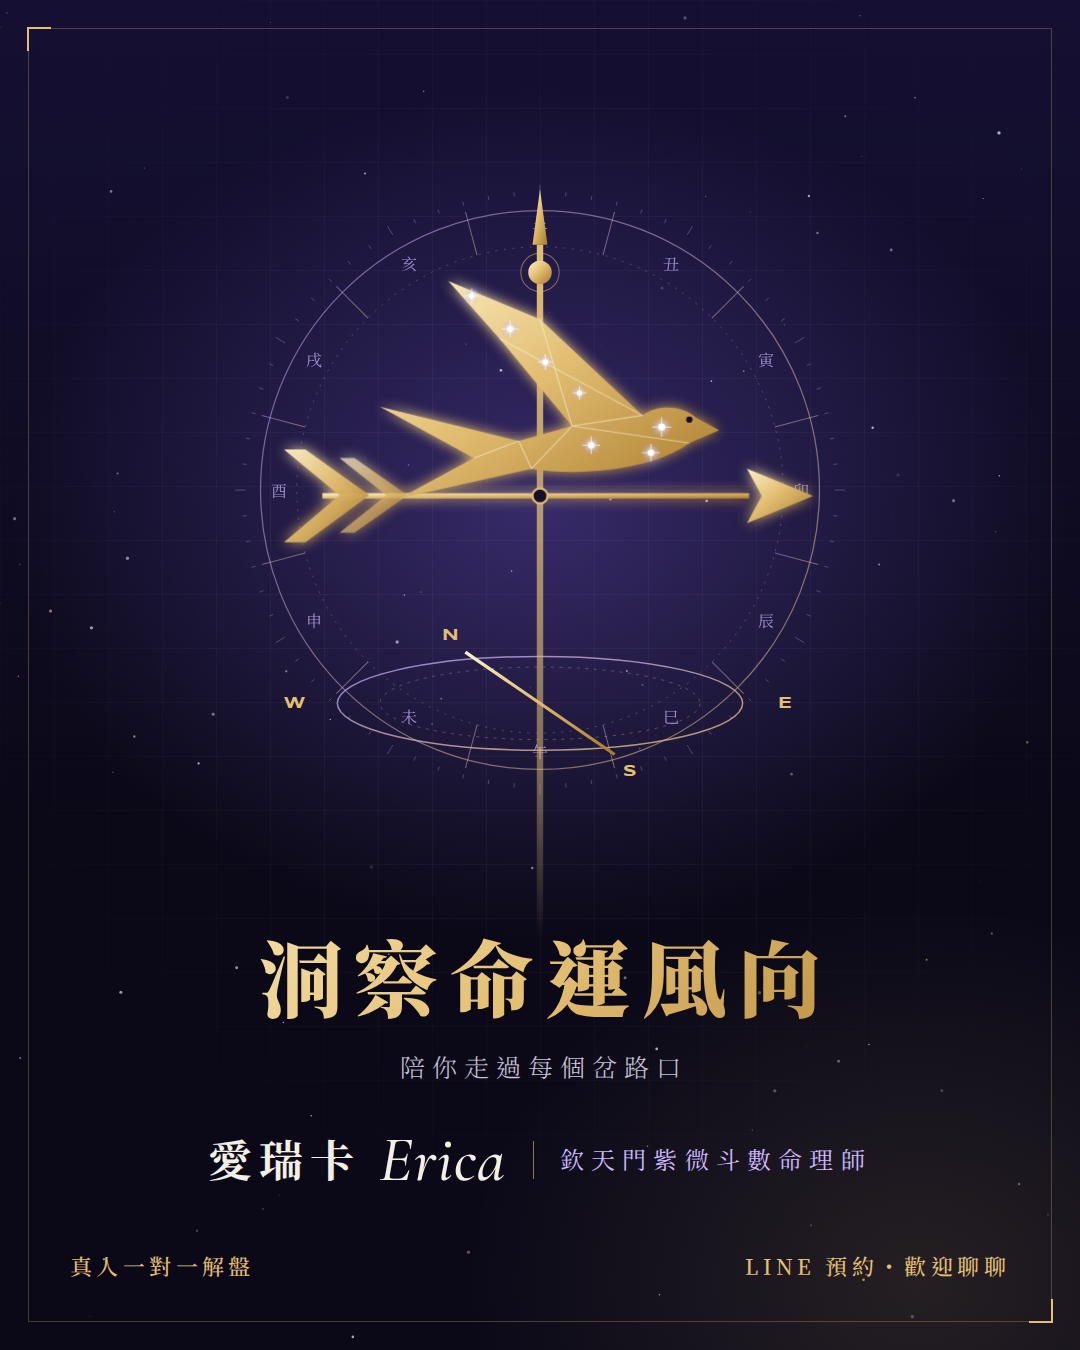
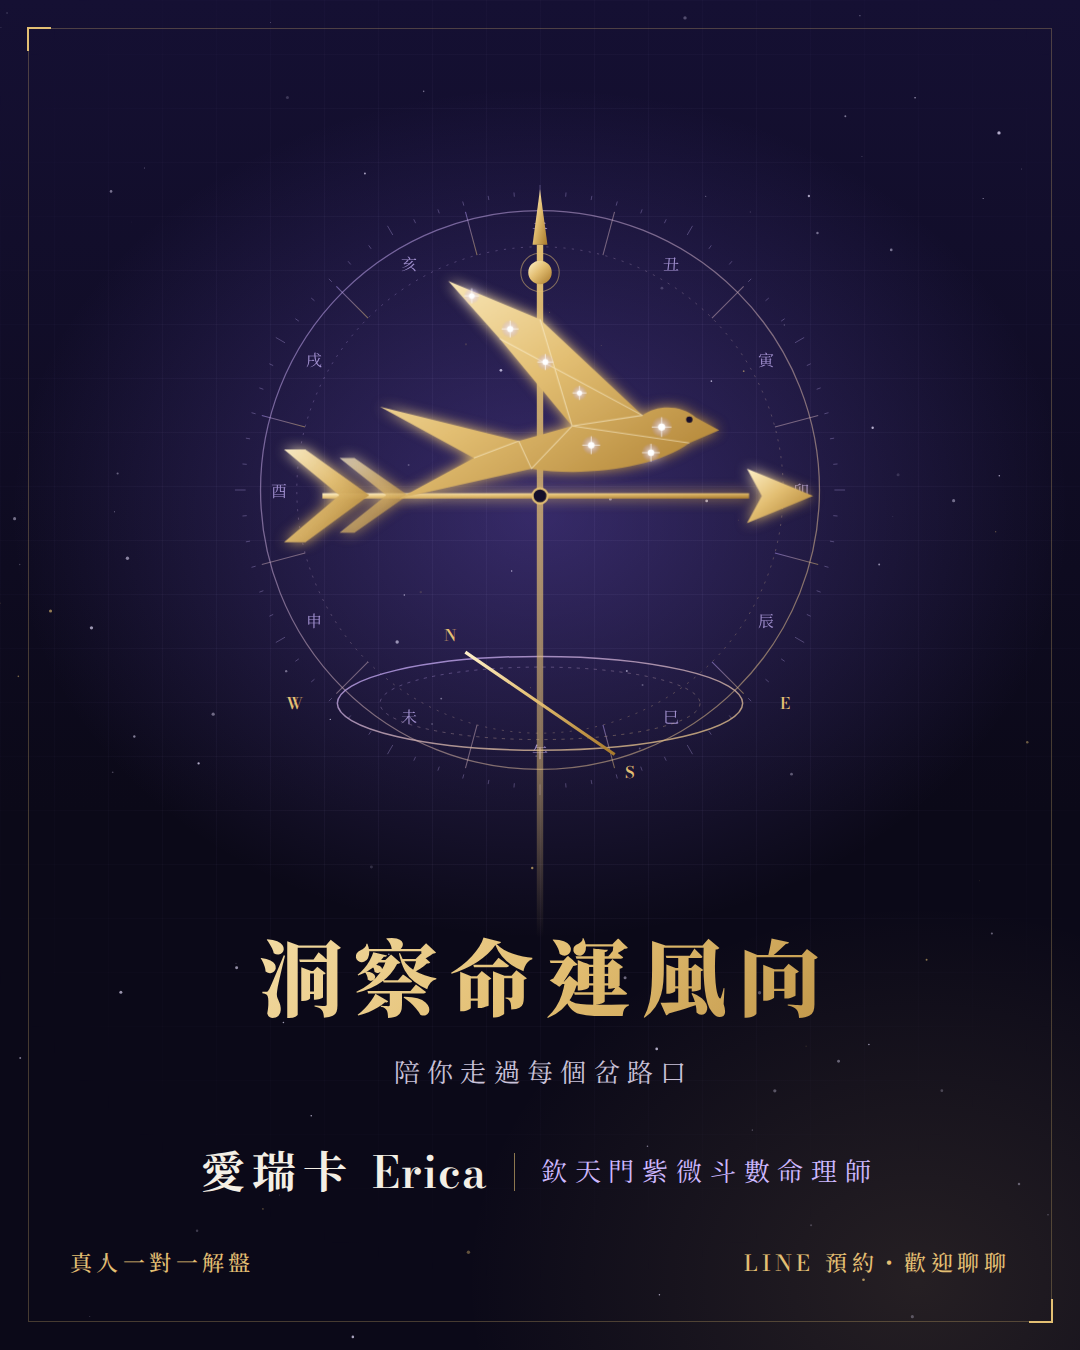
Poster: Bodoni Moda for Latin, unify type sizes
- All Chinese in Chiron Sung HK, all Latin (Erica, LINE, N/E/S/W) in
  Bodoni Moda; drop leftover Noto/Cormorant/Syncopate declarations
- Erica now the same 44px as 愛瑞卡
- Size scale: headline 84 / name 44 / subtitle + title 26 / footer 22 /
  dial labels 15; both footer items share one rule

Claude-Session: https://claude.ai/code/session_01WeWVZ5r8UiL42UXgK61AKB

diff --git a/line-oa/design/poster.html b/line-oa/design/poster.html
@@ -1,29 +1,25 @@
 <!doctype html>
 <html lang="zh-Hant"><head><meta charset="utf-8"><title>宣傳海報</title>
 <link rel="stylesheet" href="common.css">
-<link href="https://fonts.googleapis.com/css2?family=Chiron+Sung+HK:wght@300;400;500;700;900&display=swap" rel="stylesheet">
+<link href="https://fonts.googleapis.com/css2?family=Chiron+Sung+HK:wght@300;400;500;700;900&family=Bodoni+Moda:wght@500;600;700&display=swap" rel="stylesheet">
 <style>
-/* 海報中文全用昭源宋體 */
-.canvas,.canvas .headline,.canvas .name,.canvas .foot{font-family:'Chiron Sung HK',serif}
+/* 字體：中文一律昭源宋體（Chiron Sung HK），英文一律 Bodoni Moda
+   字級：標題 84 ／ 名字 44 ／ 副標・頭銜 26 ／ 底部 22 ／ 圓盤標示 15 */
+.canvas{width:1080px;height:1350px;font-family:'Bodoni Moda','Chiron Sung HK',serif}
 .canvas .vane-branch{font-family:'Chiron Sung HK',serif}
-.canvas{width:1080px;height:1350px}
-.top{position:absolute;top:86px;left:0;right:0;display:flex;align-items:center;justify-content:center;gap:22px;
-  font-family:'Noto Serif TC',serif;font-size:22px;letter-spacing:.5em;color:var(--violet-lt)}
-.top::before,.top::after{content:"";width:56px;height:1px;background:var(--gold);opacity:.6}
-.top span{padding-left:.5em}
+.canvas .compass-labels text{font-family:'Bodoni Moda',serif;font-weight:600;font-size:15px}
 .vane{position:absolute;left:50%;top:170px;width:640px;height:768px;transform:translateX(-50%)}
 .copy{position:absolute;left:0;right:0;top:930px;text-align:center}
-.headline{font-family:'Noto Serif TC',serif;font-weight:900;font-size:84px;letter-spacing:.14em;line-height:1.2;padding-left:.14em}
-.gap{display:inline-block;width:.45em}
-.sub{margin-top:22px;font-size:25px;letter-spacing:.28em;color:var(--ink-mid);font-weight:300;padding-left:.28em}
-.name{margin-top:46px;display:inline-flex;align-items:center;gap:26px;font-family:'Noto Serif TC',serif}
-.name b{font-size:44px;font-weight:700;letter-spacing:.16em}
-.name em{font-family:'Cormorant Garamond',serif;font-style:italic;font-weight:500;font-size:64px;line-height:1;letter-spacing:.02em;color:var(--ink);margin-left:-8px}
-.name i{font-style:normal;width:1px;height:38px;background:var(--gold);opacity:.6}
-.name span{font-size:24px;letter-spacing:.3em;color:var(--violet-lt)}
-.foot{position:absolute;left:70px;right:70px;bottom:70px;display:flex;justify-content:space-between;align-items:flex-end;
-  font-family:'Noto Sans TC',sans-serif;font-size:22px;letter-spacing:.2em;font-weight:500}
-.foot .real,.foot .cta{color:var(--gold)}
+.headline{font-weight:900;font-size:84px;letter-spacing:.14em;line-height:1.2;padding-left:.14em}
+.sub{margin-top:22px;font-size:26px;font-weight:400;letter-spacing:.28em;padding-left:.28em;color:var(--ink-mid)}
+.name{margin-top:46px;display:inline-flex;align-items:center;gap:26px}
+.name b,.name em{font-size:44px;font-weight:700;color:var(--ink)}
+.name b{letter-spacing:.16em}
+.name em{font-style:normal;font-weight:600;letter-spacing:.02em;margin-left:-8px}
+.name i{width:1px;height:38px;background:var(--gold);opacity:.6}
+.name span{font-size:26px;font-weight:400;letter-spacing:.3em;color:var(--violet-lt)}
+.foot{position:absolute;left:70px;right:70px;bottom:70px;display:flex;justify-content:space-between;align-items:baseline}
+.foot div{font-size:22px;font-weight:500;letter-spacing:.2em;color:var(--gold)}
 </style></head>
 <body>
 <div class="canvas">
